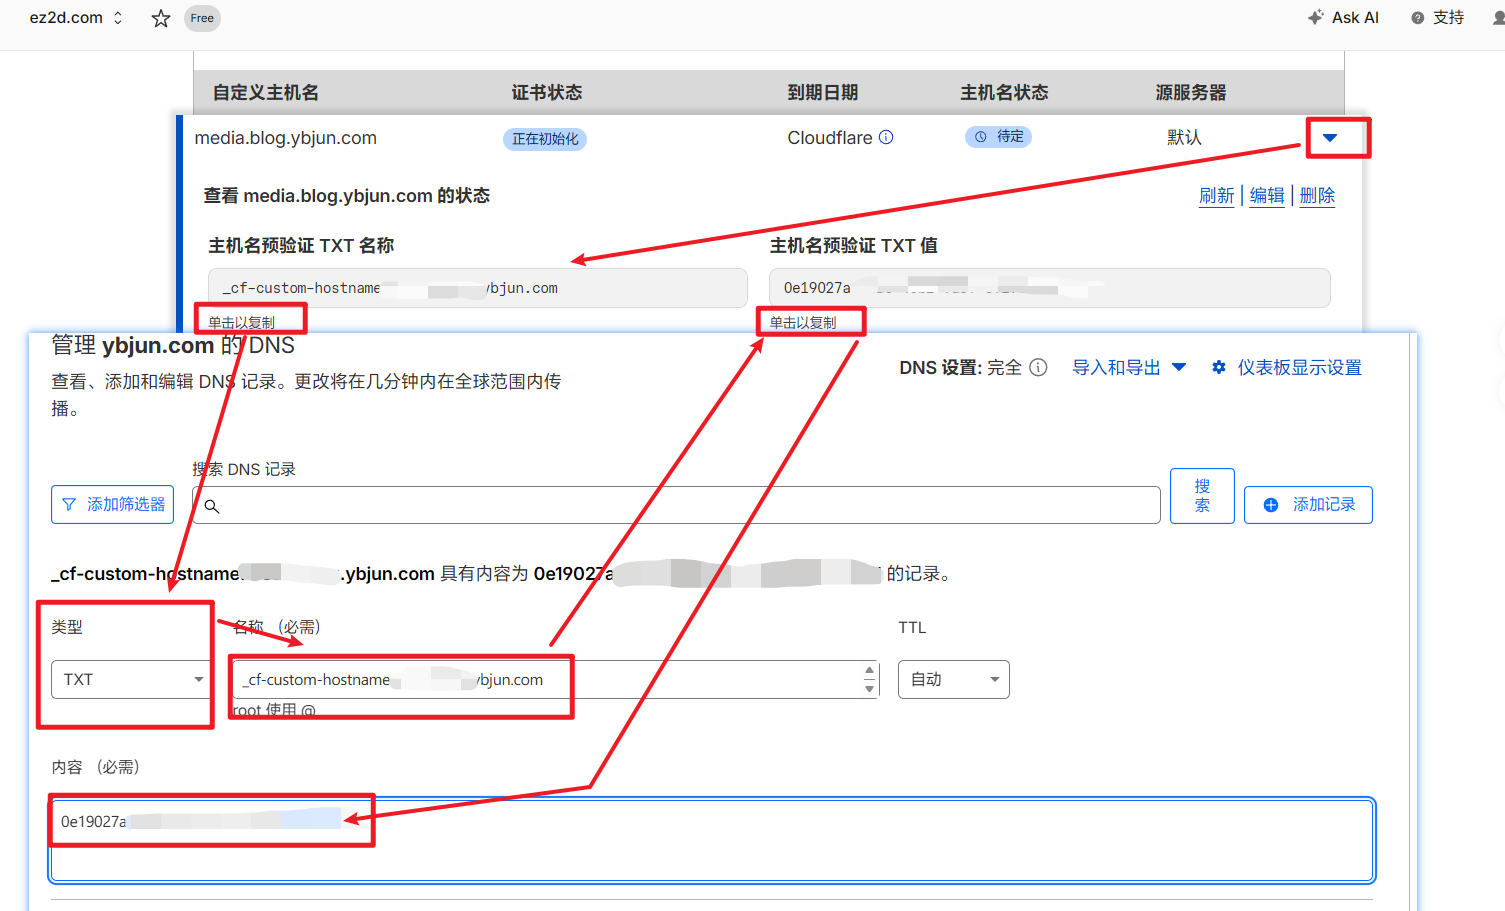
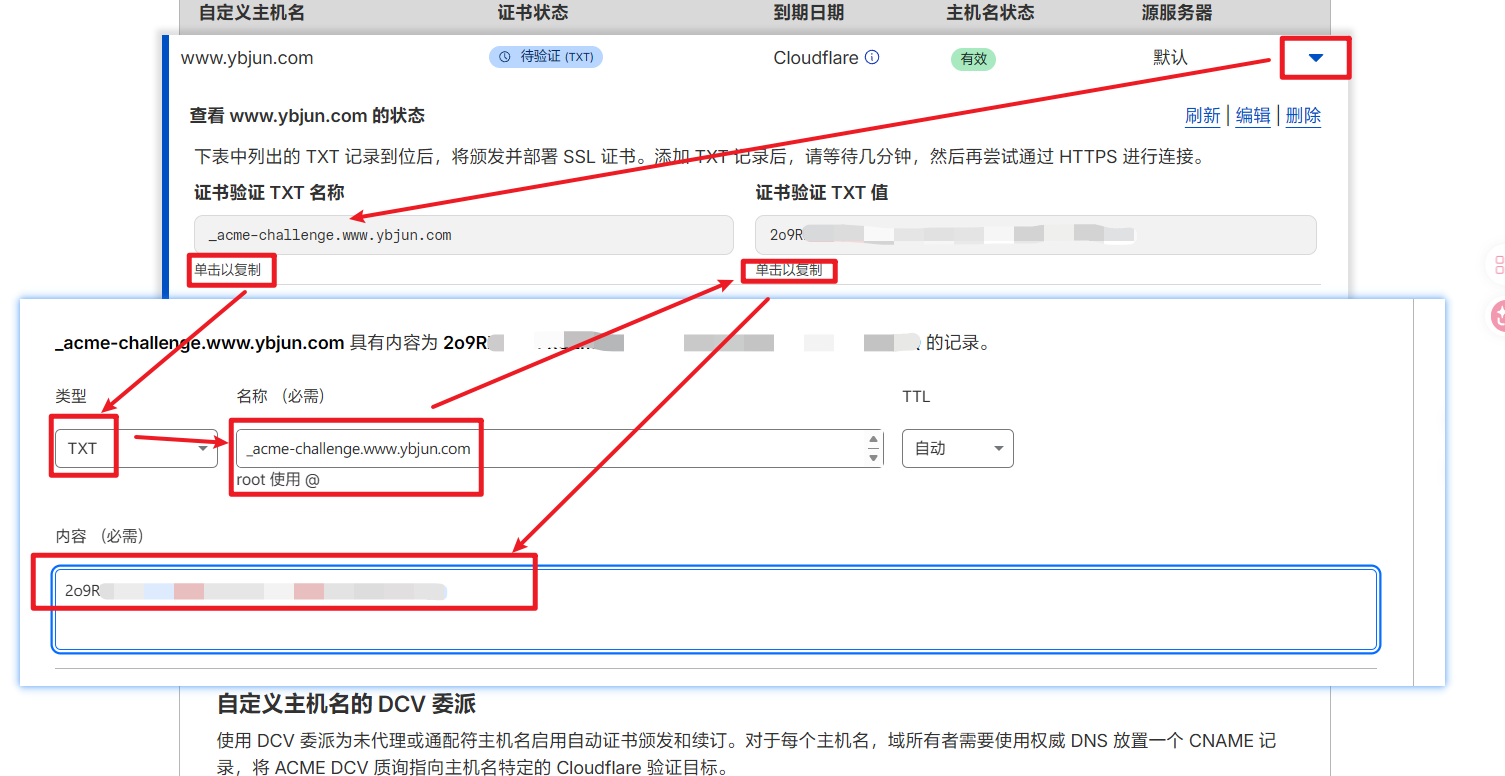
更新文章内容，修正自定义域状态描述及相关错误信息

diff --git a/src/content/posts/cloudflare-youxuan-accelrate/index.md b/src/content/posts/cloudflare-youxuan-accelrate/index.md
@@ -218,7 +218,7 @@ WHERE picurl LIKE 'https://pic.api.ybjun.com%';
 1. *在 Pages 项目中正常绑定自定义域 `www.ybjun.com`。*
 2. *待证书和 DNS 生效后，前往 DNS 记录界面，手动将这条由 Pages 生成的记录改为灰云（仅 DNS），并手动把 `CNAME` 的目标由 `*.pages.dev` 修改为我们的优选 `cdn.ybjun.com`。*
 
-刚修改完确实能**短时间起效**，但只要 GitHub 仓库一有新的 Commit 触发 Pages 的自动构建，或仅仅是过一段时间，www.ybjun.com 的自定义域状态就会变成**已停用**。**浏览器访问时报错**`Error 1000 DNS points to prohibited IP`。
+刚修改完确实能**短时间起效**，但只要 GitHub 仓库一有新的 Commit 触发 Pages 的自动构建，或仅仅是过一段时间，`www.ybjun.com` 的自定义域状态就会变成**已停用**。**浏览器访问时报错**`Error 1000 DNS points to prohibited IP`。
 ![img_1778421045558.png](./img_1778421045558.png)
 
 **原因分析：** Cloudflare Pages 有一套极其严格的 CI/CD 域名校验机制。每当项目重新编译部署，系统都会扫描你的 DNS 记录，确保自定义域依然指向 `*.pages.dev`。一旦发现 DNS 记录对不上，Pages 为了安全起见会认为该域名已失效，从而直接停用。
@@ -248,7 +248,7 @@ WHERE picurl LIKE 'https://pic.api.ybjun.com%';
 接下来需要为`www.ybjun.com`添加灰云的优选 `CNAME` 记录，但问题就这么来了， **“一根筋”就此变为“两头堵”** 。
 
 * 把`CNAME`目标指向`cdn.ybjtest.com`，浏览器访问会`Error 522`。原因是虽然 SaaS 确实被触发了，但回退源`ybjun.ybjtest.com`是一个 Pages 域名。CF 的安全机制中，SaaS 回源到 Pages 项目极其容易触发 522（连接超时），因为 **Pages 的边缘节点拒绝接受带有被篡改的 Host 头的异常回源请求**，直接把连接掐断了。
-* 把`CNAME`目标指向`cdn.ybjun.com`，浏览器访问会`Error 1000`。原因是**在 CF 的底层路由协议中：原生 Zone 内的路由优先级永远大于 SaaS 自定义主机名**。当请求 `www.ybjun.com` 到达优选节点时，节点一看：“哦，`ybjun.com` 就在系统里，我直接去查它的原生 DNS 表。” 节点根本就懒得去查`ybjtest.com` 里的 SaaS 名单。结果节点在 `ybjun.com` 里一看，`www` 是个灰云，而且没有绑 Worker 路由，也没有绑 Pages，**直接判定为“非法回环解析”**，扔回一个无情的 Error 1000。
+* 把`CNAME`目标指向`cdn.ybjun.com`，浏览器访问会`Error 1000`。原因是**在 CF 的底层路由协议中：原生 Zone 内的路由优先级永远大于 SaaS 自定义主机名**。当请求 `www.ybjun.com` 到达优选节点时，节点一看：“哦，`ybjun.com` 就在系统里，我直接去查它的原生 DNS 表。” 节点根本就懒得去查`ybjtest.com` 里的 SaaS 名单。结果节点在 `ybjun.com` 里一看，`www` 是个灰云，而且没有绑 Worker 路由，也没有绑 Pages，**直接判定为“非法回环解析”**，扔回一个无情的 `Error 1000`。
 
 由上可见，网上广为流传的 Cloudflare for SaaS 方案，可能主要还是适用于 VPS 等其它部署方案，**并不适用于 Pages 项目**。Pages 的自定义域是“动不得”的，而 SaaS 路由在同 Zone 下又是“进不来”的。面对这种左右为难的局面，博主最后只能尝试一种**兜底的“曲线救国”方案**——跳出 Pages 的框架，做一个简单的 Worker 代理去转发 Page 的流量。
 
